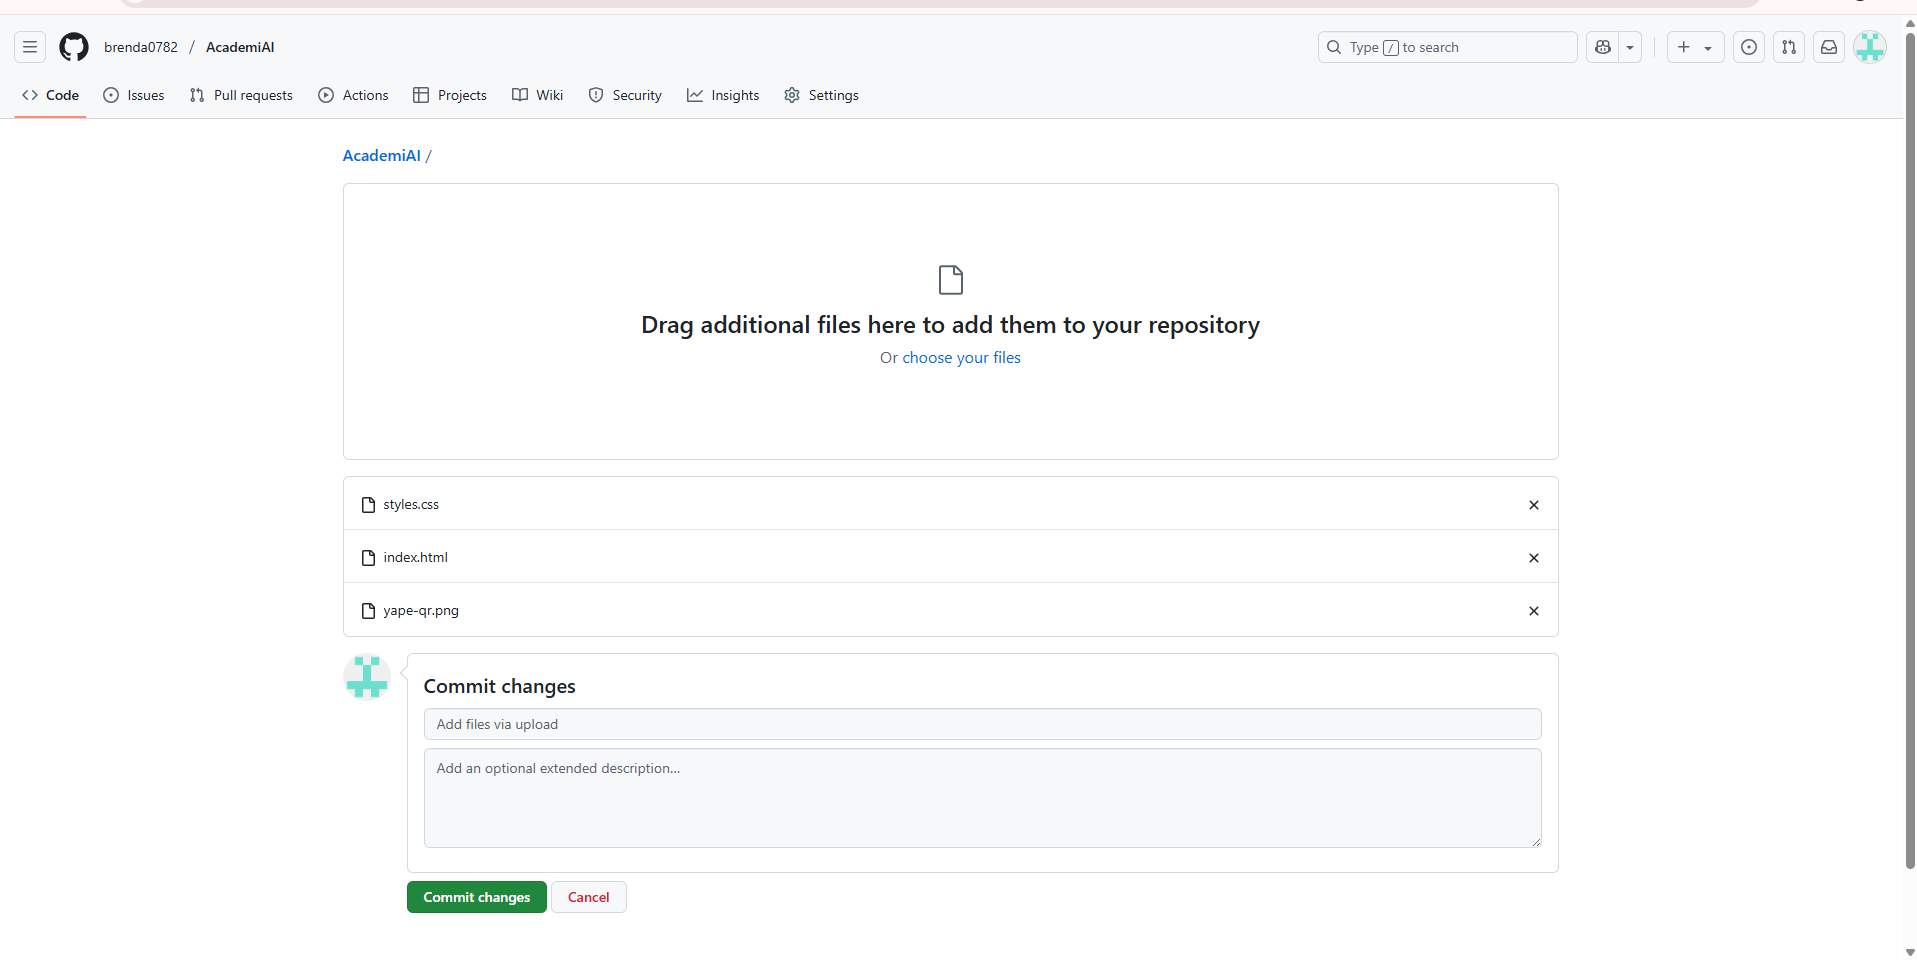
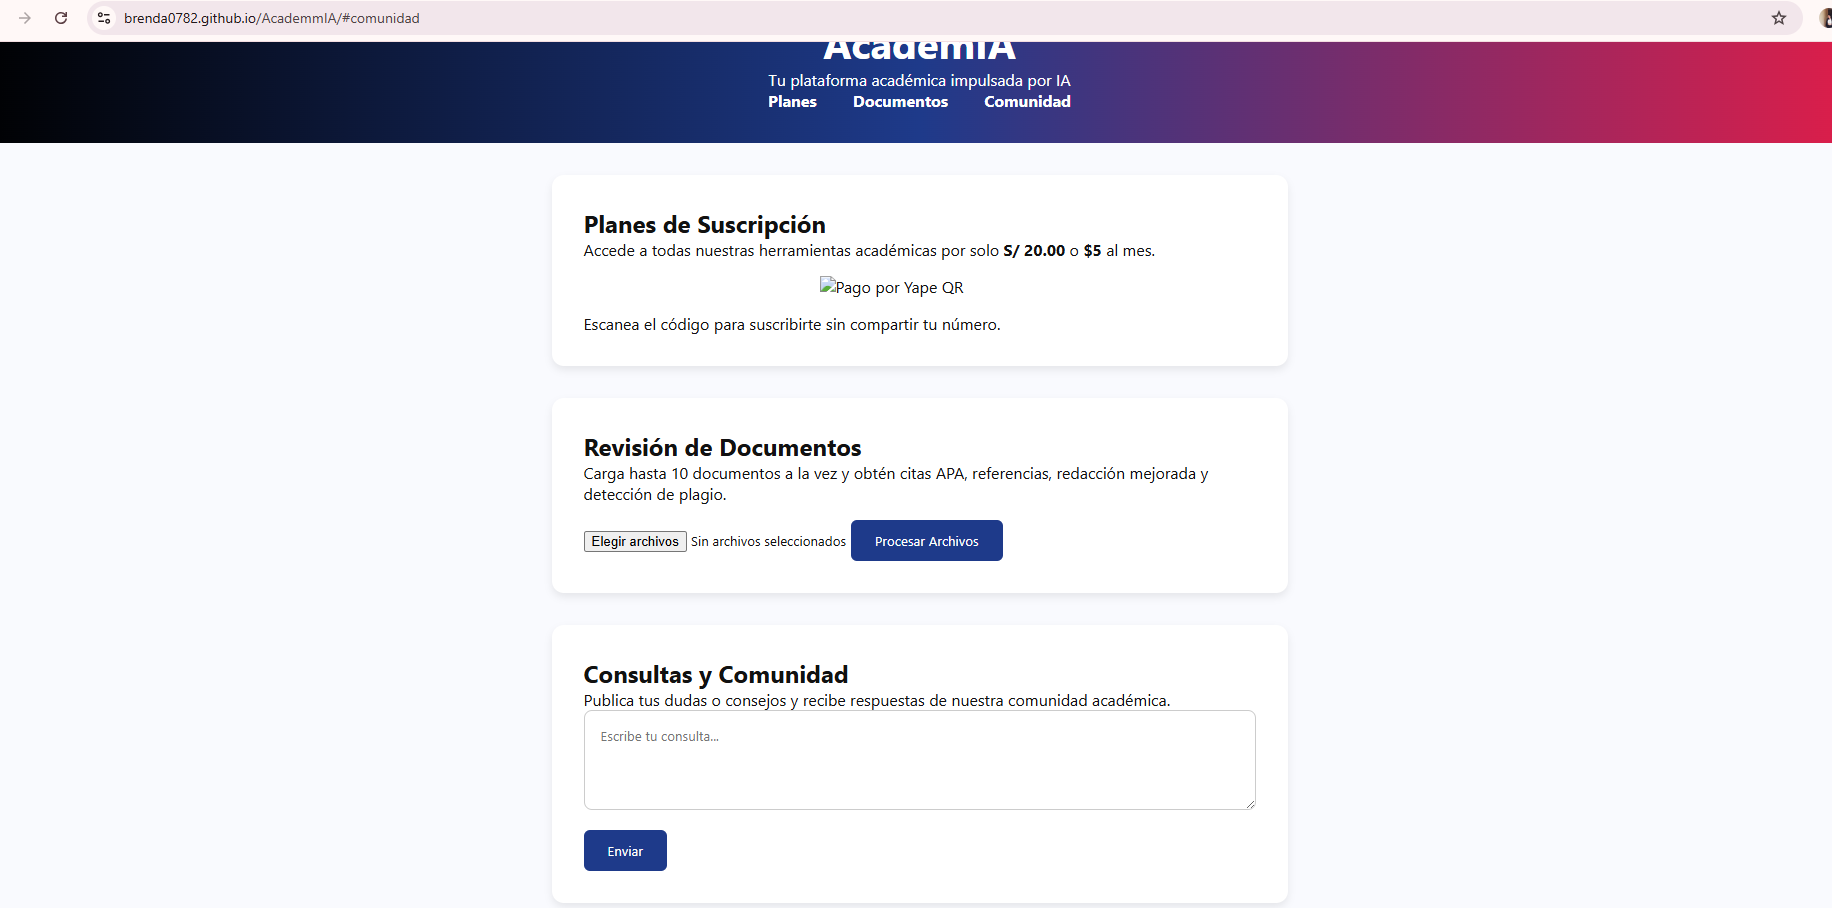
Add files via upload

diff --git a/index.html b/index.html
@@ -1,51 +1,51 @@
-
 <!DOCTYPE html>
 <html lang="es">
 <head>
-  <meta charset="UTF-8" />
-  <meta name="viewport" content="width=device-width, initial-scale=1.0"/>
-  <meta name="description" content="AcademIA - Herramientas de IA para tesis académicas"/>
-  <title>AcademIA | Plataforma de Asistencia Académica</title>
-  <link rel="stylesheet" href="styles.css" />
+    <meta charset="UTF-8">
+    <meta name="viewport" content="width=device-width, initial-scale=1.0">
+    <title>AcademIA</title>
+    <link rel="stylesheet" href="styles.css">
 </head>
 <body>
-  <header class="banner">
-    <div class="banner-content">
-      <h1>AcademIA</h1>
-      <p>Tu plataforma académica impulsada por IA</p>
-      <nav>
-        <a href="#planes">Planes</a>
-        <a href="#documentos">Documentos</a>
-        <a href="#comunidad">Comunidad</a>
-      </nav>
-    </div>
-  </header>
+    <header>
+        <h1>AcademIA</h1>
+        <p>Tu plataforma académica impulsada por IA</p>
+        <nav>
+            <ul>
+                <li><a href="#planes">Planes</a></li>
+                <li><a href="#documentos">Documentos</a></li>
+                <li><a href="#comunidad">Comunidad</a></li>
+            </ul>
+        </nav>
+    </header>
 
-  <main>
-    <section id="planes" class="card">
-      <h2>Planes de Suscripción</h2>
-      <p>Accede a todas nuestras herramientas académicas por solo <strong>S/ 20.00</strong> o <strong>$5</strong> al mes.</p>
-      <img src="img/yape-qr.png" alt="Pago por Yape QR" />
-      <p>Escanea el código para suscribirte sin compartir tu número.</p>
-    </section>
+    <main>
+        <section id="planes">
+            <h2>Planes de Suscripción</h2>
+            <p>Accede a todas nuestras herramientas académicas por solo <strong>S/ 20.00</strong> o <strong>$5</strong> al mes.</p>
+            <div class="qr-pago">
+                <img src="yape-qr.png" alt="Pago por Yape QR">
+                <p>Escanea el código para suscribirte sin compartir tu número.</p>
+            </div>
+        </section>
 
-    <section id="documentos" class="card">
-      <h2>Revisión de Documentos</h2>
-      <p>Carga hasta 10 documentos a la vez y obtén citas APA, referencias, redacción mejorada y detección de plagio.</p>
-      <input type="file" multiple />
-      <button>Procesar Archivos</button>
-    </section>
+        <section id="documentos">
+            <h2>Revisión de Documentos</h2>
+            <p>Carga hasta 10 documentos a la vez y obtén citas APA, referencias, redacción mejorada y detección de plagio.</p>
+            <input type="file" multiple>
+            <button>Procesar Archivos</button>
+        </section>
 
-    <section id="comunidad" class="card">
-      <h2>Consultas y Comunidad</h2>
-      <p>Publica tus dudas o consejos y recibe respuestas de nuestra comunidad académica.</p>
-      <textarea placeholder="Escribe tu consulta..."></textarea>
-      <button>Enviar</button>
-    </section>
-  </main>
+        <section id="comunidad">
+            <h2>Consultas y Comunidad</h2>
+            <p>Publica tus dudas o consejos y recibe respuestas de nuestra comunidad académica.</p>
+            <textarea placeholder="Escribe tu consulta..."></textarea>
+            <button>Enviar</button>
+        </section>
+    </main>
 
-  <footer>
-    <p>&copy; 2025 AcademIA. Todos los derechos reservados.</p>
-  </footer>
+    <footer>
+        <p>&copy; 2025 AcademIA. Todos los derechos reservados.</p>
+    </footer>
 </body>
 </html>

diff --git a/styles.css b/styles.css
@@ -1,77 +1,94 @@
-
 * {
-  margin: 0;
-  padding: 0;
-  box-sizing: border-box;
-  font-family: 'Segoe UI', sans-serif;
+    margin: 0;
+    padding: 0;
+    box-sizing: border-box;
+    font-family: 'Segoe UI', sans-serif;
 }
 
 body {
-  background-color: #f9fafe;
-  color: #111;
+    background-color: #f7f9fc;
+    color: #111;
+    line-height: 1.6;
 }
 
-.banner {
-  background: linear-gradient(90deg, #000000, #1e3a8a, #e11d48);
-  color: white;
-  padding: 2rem;
-  text-align: center;
+header {
+    background: linear-gradient(to right, #000000, #11146c, #ff0048);
+    color: white;
+    padding: 2rem 1rem;
+    text-align: center;
 }
 
-.banner-content h1 {
-  font-size: 2.5rem;
+header h1 {
+    font-size: 2.5rem;
+    margin-bottom: 0.5rem;
 }
 
-.banner nav a {
-  color: white;
-  margin: 0 1rem;
-  text-decoration: none;
-  font-weight: bold;
+header nav ul {
+    list-style: none;
+    display: flex;
+    justify-content: center;
+    gap: 2rem;
+    padding-top: 1rem;
+}
+
+header nav ul li a {
+    color: white;
+    text-decoration: none;
+    font-weight: bold;
 }
 
 main {
-  padding: 2rem;
-  display: grid;
-  gap: 2rem;
-  max-width: 800px;
-  margin: auto;
+    padding: 2rem;
+    display: flex;
+    flex-direction: column;
+    gap: 2rem;
 }
 
-.card {
-  background: white;
-  border-radius: 12px;
-  padding: 2rem;
-  box-shadow: 0 4px 8px rgba(0,0,0,0.08);
+section {
+    background: white;
+    padding: 1.5rem;
+    border-radius: 8px;
+    box-shadow: 0 2px 6px rgba(0,0,0,0.1);
 }
 
-.card img {
-  width: 200px;
-  display: block;
-  margin: 1rem auto;
+.qr-pago {
+    margin-top: 1rem;
+    text-align: center;
+}
+
+.qr-pago img {
+    width: 200px;
+    height: auto;
+    margin-bottom: 0.5rem;
 }
 
 textarea {
-  width: 100%;
-  height: 100px;
-  padding: 1rem;
-  border: 1px solid #ccc;
-  border-radius: 8px;
+    width: 100%;
+    height: 100px;
+    margin-top: 0.5rem;
+    padding: 0.5rem;
+    border-radius: 5px;
+    border: 1px solid #ccc;
 }
 
 button {
-  background-color: #1e3a8a;
-  color: white;
-  border: none;
-  padding: 0.75rem 1.5rem;
-  margin-top: 1rem;
-  border-radius: 6px;
-  cursor: pointer;
+    margin-top: 1rem;
+    padding: 0.5rem 1rem;
+    background-color: #11146c;
+    color: white;
+    border: none;
+    border-radius: 5px;
+    cursor: pointer;
+}
+
+button:hover {
+    background-color: #ff0048;
 }
 
 footer {
-  text-align: center;
-  padding: 1rem;
-  font-size: 0.9rem;
-  background-color: #111;
-  color: white;
+    text-align: center;
+    padding: 1rem;
+    font-size: 0.9rem;
+    background-color: #111;
+    color: white;
 }
